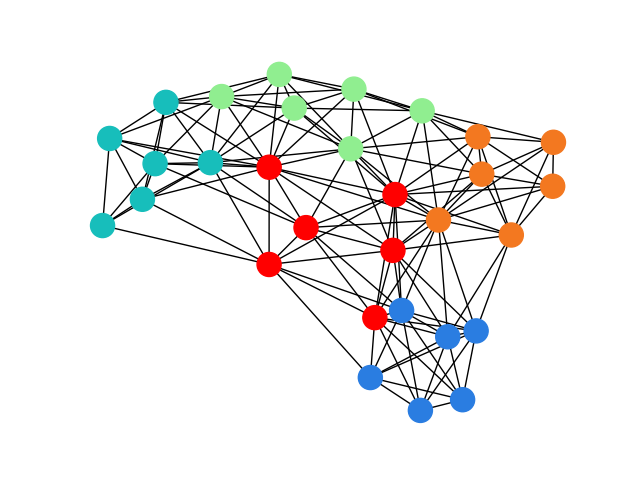
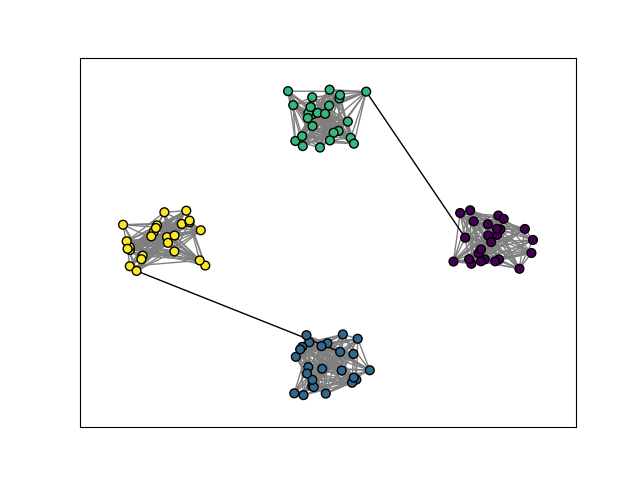
Update README images

diff --git a/graph_partitioning.py b/graph_partitioning.py
@@ -121,14 +121,14 @@ def build_graph(args):
 def visualize_input_graph(G):
     """ Visualize graph to be partitioned."""
 
-    pos = nx.circular_layout(G)
+    pos = nx.random_layout(G)
     nx.draw_networkx_nodes(G, pos, node_size=20, node_color='r', edgecolors='k')
     nx.draw_networkx_edges(G, pos, edgelist=G.edges(), style='solid', edge_color='#808080')
     plt.draw()
     plt.savefig('input_graph.png')
     plt.close()
 
-def build_cqm(G, k, lagrange):
+def build_cqm(G, k):
 
     # Set up the partitions
     partitions = range(k)
@@ -266,7 +266,7 @@ if __name__ == '__main__':
 
     visualize_input_graph(G)
 
-    cqm = build_cqm(G, k, 3)
+    cqm = build_cqm(G, k)
 
     # Initialize the CQM solver
     print("\nOptimizing on LeapHybridCQMSampler...")
